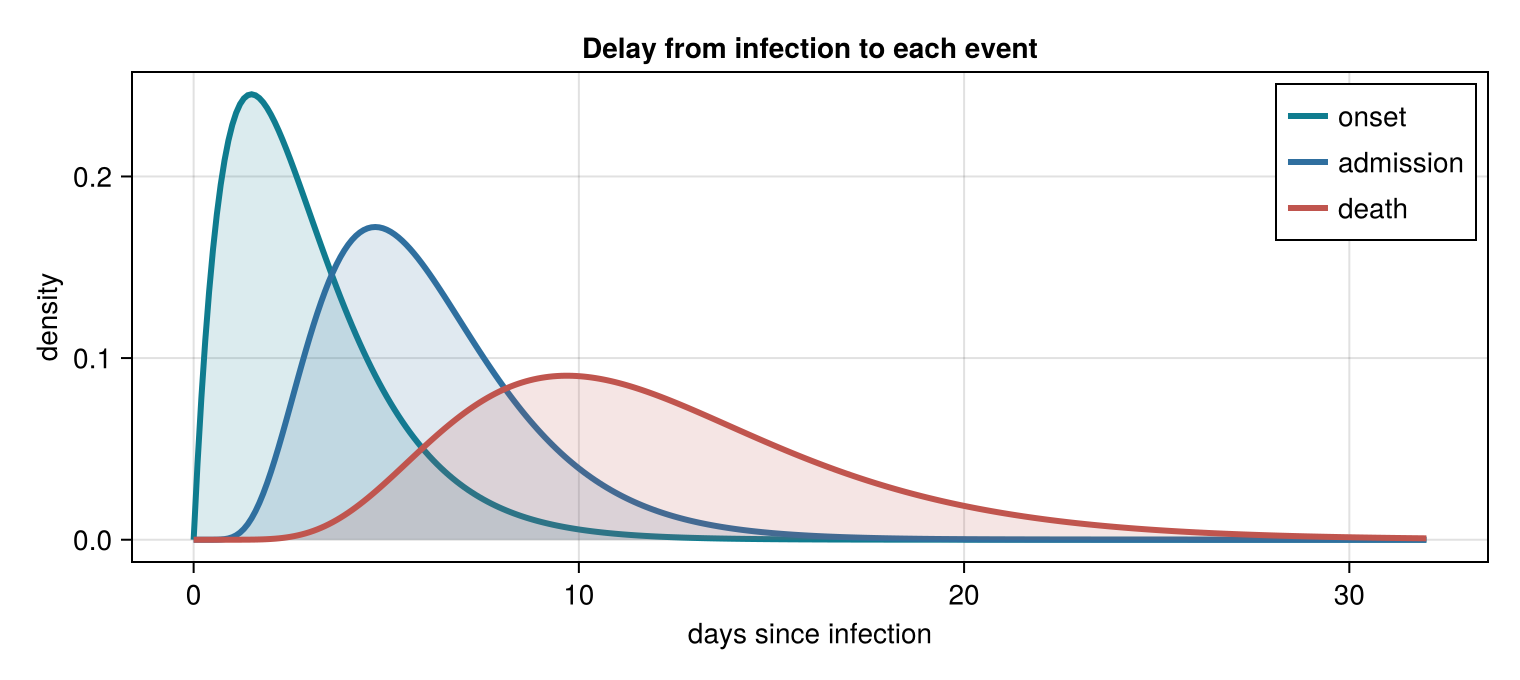
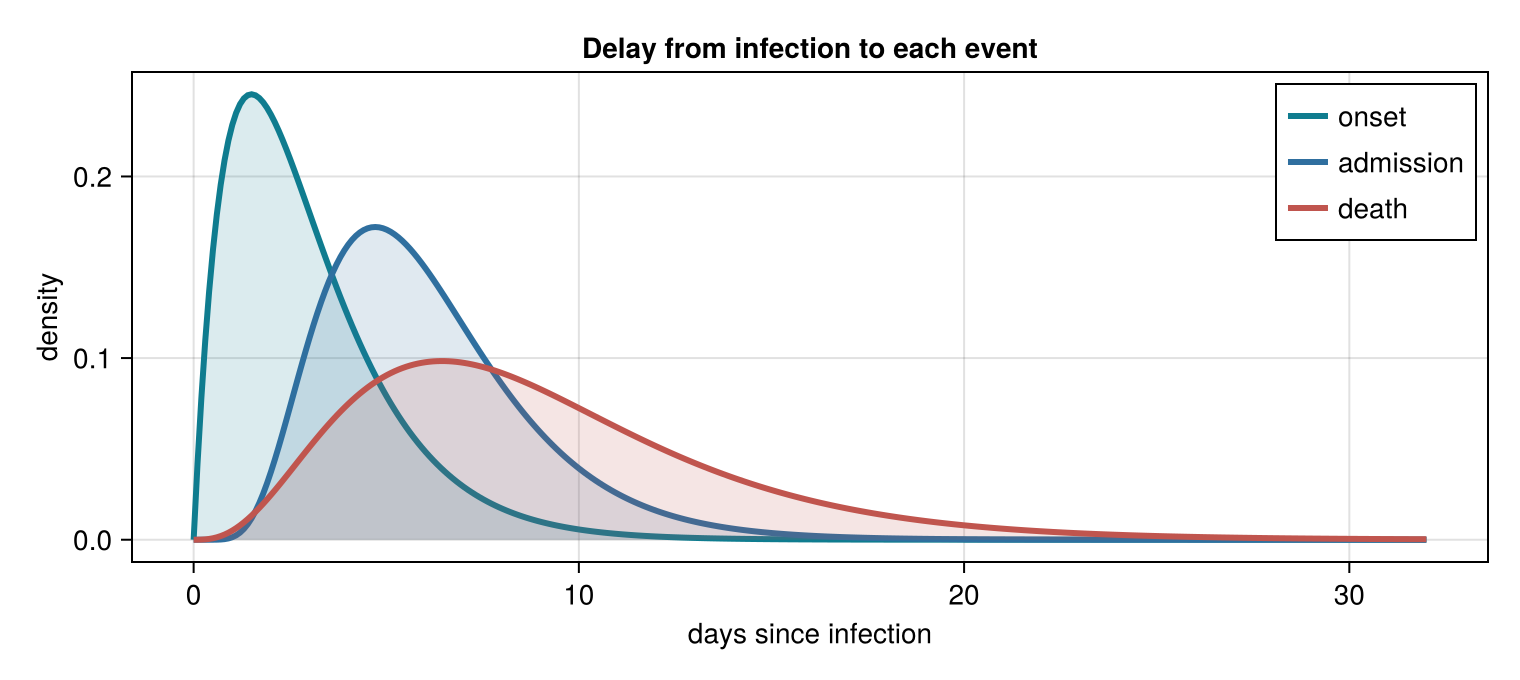
Cleaner Turing-style home split; nicer tree in Quick start (#8)
- Home: replace the code+plot showcase with a two-column split — key points on
  the left, a single code example (no output) on the right, matching
  turinglang.org. Removes plot output from the landing page
- Quick start: show a nicely named compose tree (Parallel branches) instead of
  the generic Sequential step_1/2/3 tree; keep the convolved delay plot

diff --git a/styles.css b/styles.css
@@ -24,28 +24,28 @@ h1, h2, h3 { letter-spacing: -0.02em; }
 }
 .cta-row { display: flex; flex-wrap: wrap; gap: 0.6rem; justify-content: center; }
 
-/* Home: code showcase (two ways to work) ---------------------------------- */
-.showcase-pair {
+/* Home: split — key points (left) + a code example (right) ---------------- */
+.landing-split {
   display: grid;
-  grid-template-columns: repeat(2, minmax(0, 1fr));
-  gap: 1.5rem;
-  margin: 1.5rem 0 1rem;
-  align-items: start;
+  grid-template-columns: minmax(0, 1fr) minmax(0, 1.25fr);
+  gap: 2.5rem;
+  align-items: center;
+  margin: 1rem 0 2.75rem;
 }
-.showcase-card { min-width: 0; }
-.showcase-card h4 { margin: 0 0 0.6rem; }
-.showcase-card div.sourceCode {
-  border-radius: 12px;
-  margin: 0 0 0.6rem;
-  box-shadow: 0 6px 24px rgba(0, 0, 0, 0.08);
+.landing-points > p:first-child {
+  font-size: 1.4rem; font-weight: 600; line-height: 1.35;
+  letter-spacing: -0.01em; margin-bottom: 1.3rem;
 }
-.showcase-card pre { padding: 1.1rem 1.25rem; font-size: 0.84rem; }
-.showcase-card img {
-  width: 100%; border-radius: 10px; margin: 0.1rem 0 0.6rem;
-  border: 1px solid rgba(128, 128, 128, 0.15);
+.landing-points .point { margin: 0 0 0.9rem; line-height: 1.5; }
+.point-title { font-weight: 700; }
+.landing-code { min-width: 0; }
+.landing-code div.sourceCode {
+  border-radius: 12px; margin: 0;
+  box-shadow: 0 8px 28px rgba(0, 0, 0, 0.10);
 }
+.landing-code pre { padding: 1.2rem 1.35rem; font-size: 0.9rem; }
 @media (max-width: 820px) {
-  .showcase-pair { grid-template-columns: 1fr; gap: 1.25rem; }
+  .landing-split { grid-template-columns: 1fr; gap: 1.5rem; }
 }
 
 /* "See all →" style links */